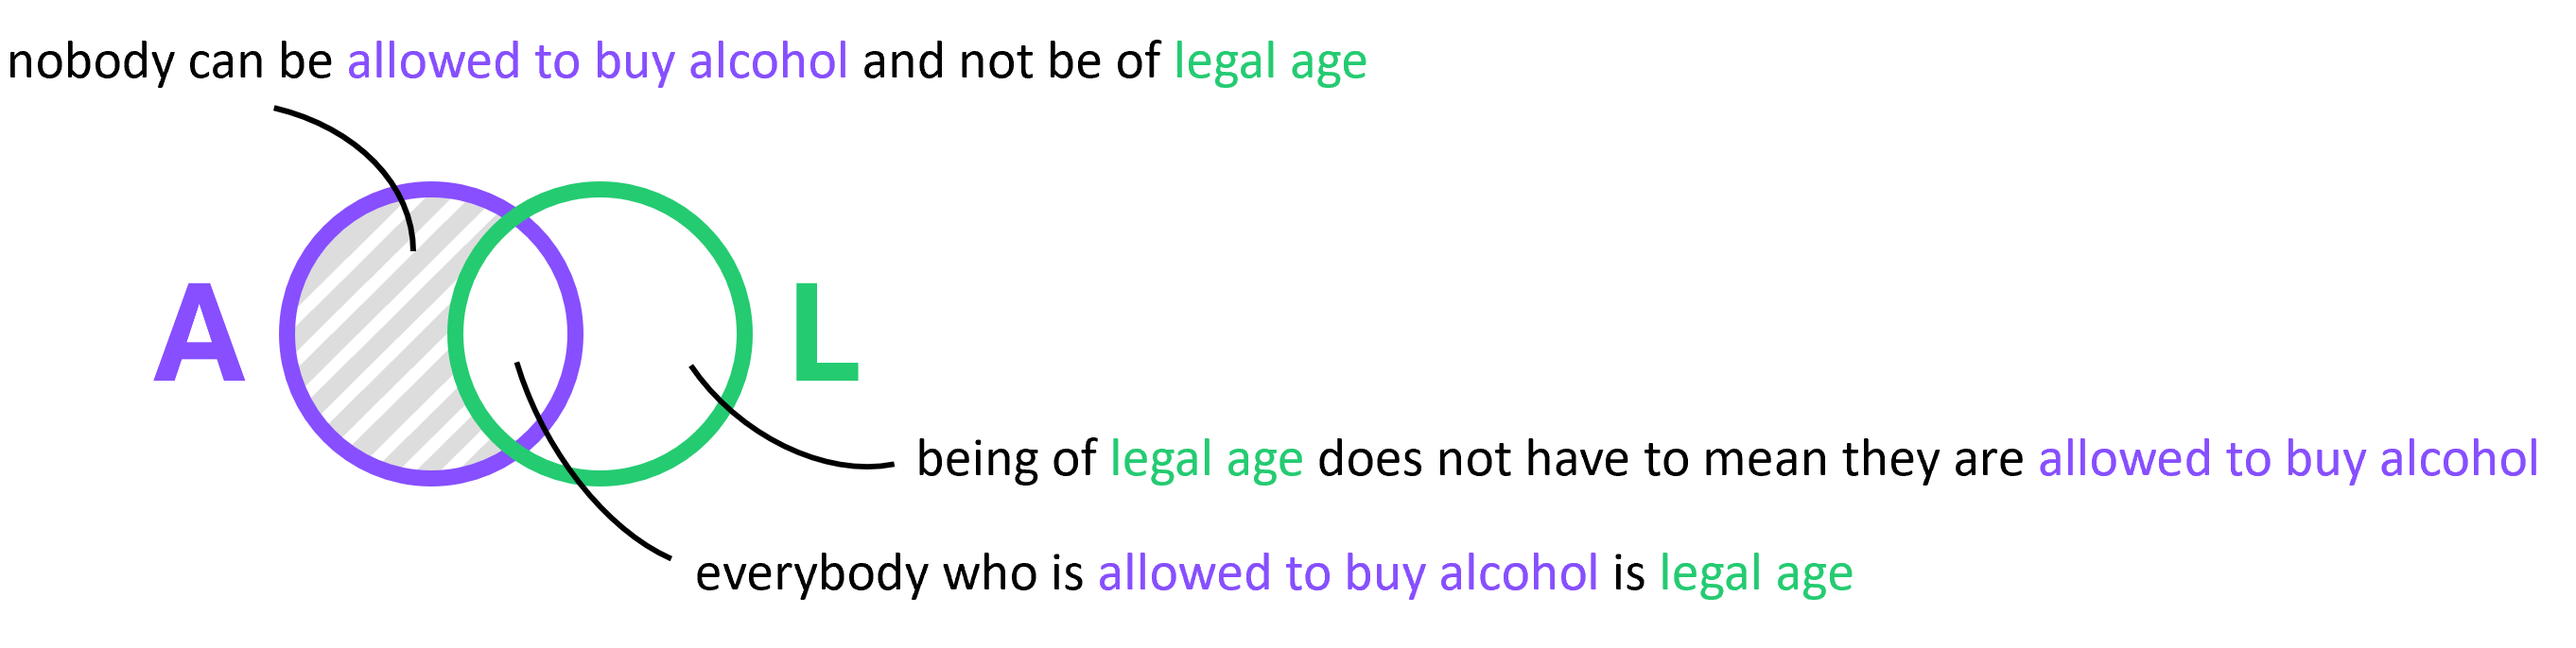
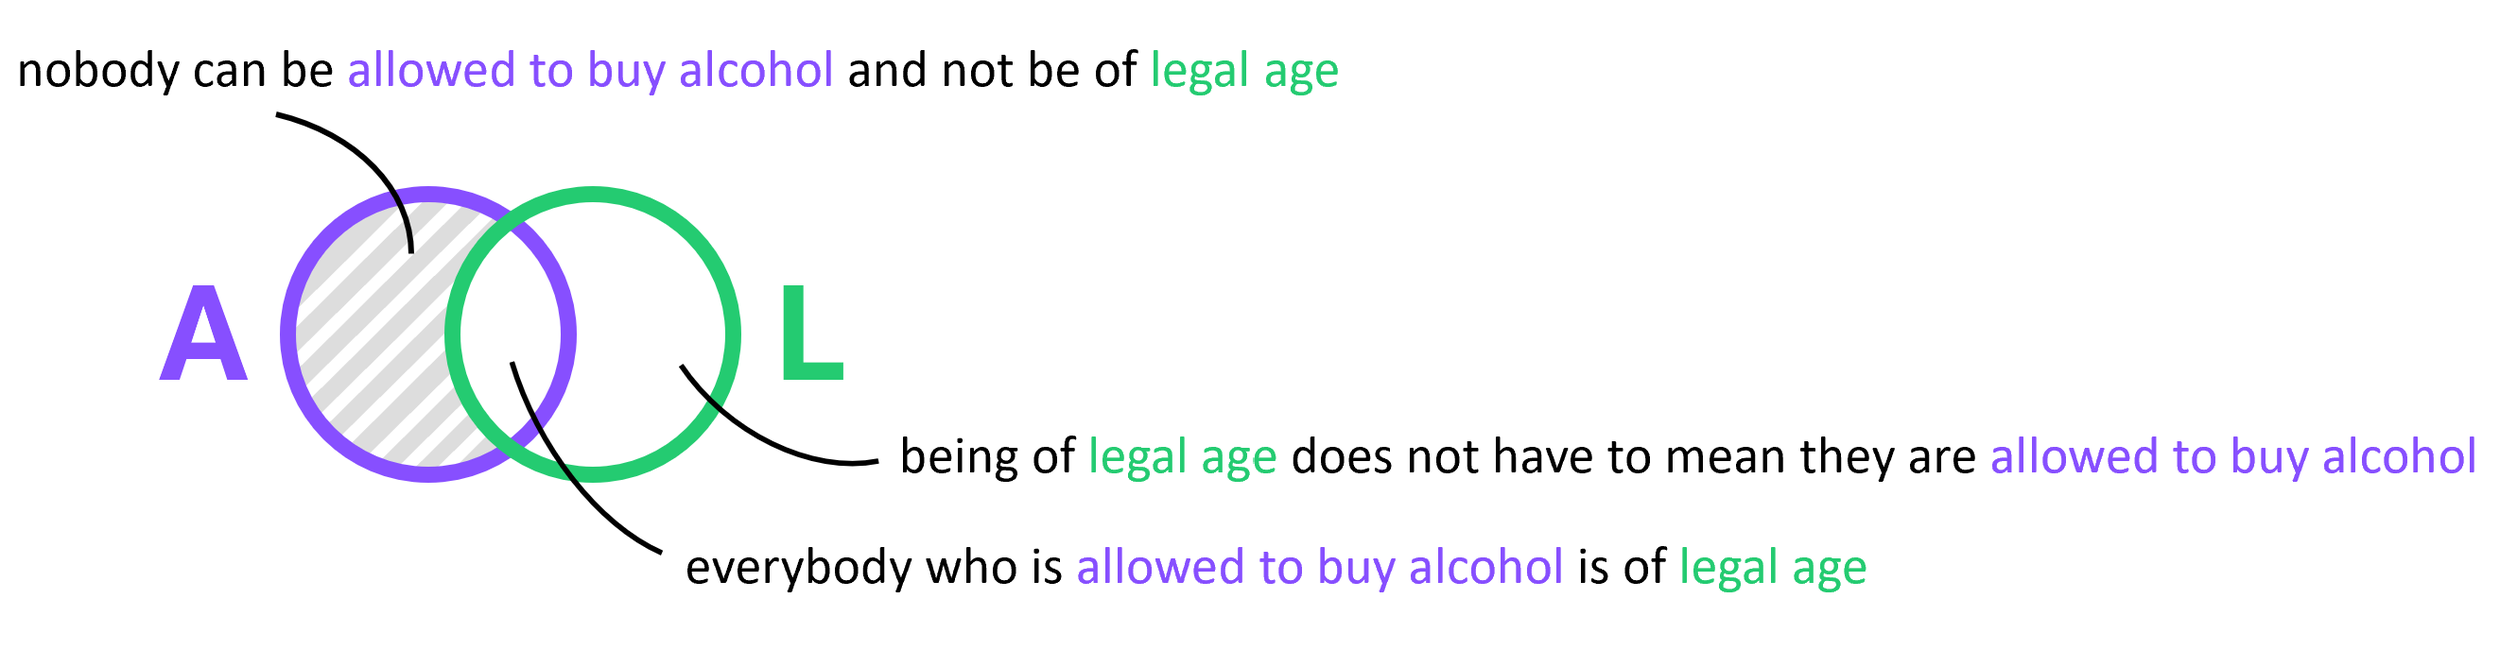
update tutorial

Changed region(s): [[0.062, 0.2143, 0.9924, 0.8265], [0.0, 0.0612, 0.5582, 0.1837], [0.2481, 0.8265, 0.7443, 0.9184]]

diff --git a/public/as-euler-study-part-1/assets/tutorial2.md b/public/as-euler-study-part-1/assets/tutorial2.md
@@ -6,11 +6,11 @@ All tasks include visual cues to help you find the solution. Each cue offers sup
 
 The first type of clue is the color coding of the task text. The "if" and "then" parts of the premises and the conclusion are highlighted in color. If two parts are highlighted in the same color, they are either the same statements or a statement and its negation. An example:
 
-"To be <mark style="background-color: #874fff88">allowed to buy alcohol in Germany</mark>, you must <mark style="background-color: #24CB7188">be of legal age</mark>. Anyone <mark style="background-color: #FF723788">under the age of 18</mark> is considered a <mark style="background-color: #24CB7188">minor</mark>. Anyone who is <mark style="background-color: #874fff88">allowed to buy alcohol in Germany</mark> must be <mark style="background-color: #FF723788">18 years of age or older</mark>."
+"To be <mark style="background-color: #874fff88">allowed to buy alcohol in Germany</mark>, you must <mark style="background-color: #24CB7188">be of legal age</mark>. Anyone <ins><mark style="background-color: #FF723788">under the age of 18</mark></ins> is considered a <ins><mark style="background-color: #24CB7188">minor</mark></ins>. Anyone who is <mark style="background-color: #874fff88">allowed to buy alcohol in Germany</mark> must be <mark style="background-color: #FF723788">18 years of age or older</mark>."
 
 This cue is intended to help you reliably identify the if-then form of declarative sentences, even in cases where negations are present. In case an if-part or then-part is negated, the corresponding text is <ins>underlined</ins>.
 
-##### Second Type of Cue: Euler Diagrams
+##### Second Cue: Euler Diagrams
 
 The second type of cue consists of set diagrams, which are displayed next to the text in addition to the color coding. Each premise and conclusion has its own set diagram. It shows the "if" part of the conditional as a set that is contained in the set of the "then" part. These diagrams are also called Euler diagrams.
 

diff --git a/public/as-venn-study-part-1/assets/tutorial2.md b/public/as-venn-study-part-1/assets/tutorial2.md
@@ -10,9 +10,9 @@ The first type of clue is the color coding of the task text. The "if" and "then"
 
 This cue is intended to help you reliably identify the if-then form of declarative sentences, even in cases where negations are present. In case an if-part or then-part is negated, the corresponding text is <ins>underlined</ins>.
 
-##### Second Type of Cue: Venn Diagrams
+##### Second Cue: Venn Diagrams
 
-The second type of cue consists of set diagrams, which are displayed next to the text in addition to the color coding. Each premise and conclusion has its own set diagram. It shows the "if" part and the "then" part of the conditional as two sets. The shading (hatched area) indicates that the "if" part of the conditional must lie exactly in the intersection and must therefore be a subset of the "then" part. These diagrams are also called Venn diagrams.
+The second type of cue consists of set diagrams, which are displayed next to the text in addition to the color coding. Each premise and conclusion has its own set diagram. It shows the "if" part and the "then" part of the conditional as two sets. If an area is shaded, it means that the situations contained within that subset cannot exist. The shading (hatched area) indicates that the "if" part of the conditional must lie exactly in the intersection and must therefore be a subset of the "then" part. These diagrams are also called Venn diagrams.
 
 An example: The following Venn diagram is displayed for the conditional "To be <mark style="background-color: #874fff88">allowed to buy alcohol in Germany</mark>, you must <mark style="background-color: #24CB7188">be of legal age</mark>":
 

diff --git a/public/as-euler-study-part-1/assets/tutorial4.md b/public/as-euler-study-part-1/assets/tutorial4.md
@@ -1,5 +1,5 @@
 ##### Solving Tasks with Visual Cues
 
-For the tasks that require you to draw conclusions, the premises in the context will be visualized. For other tasks, the context describes incomplete or incorrect arguments and ask about required assumptions or flaws in the reasoning. In this case, the Euler diagrams will  show you the premises and the conclusion of the argument. This way you can check how they can be combined to see which assumptions are required or where errors occured. Here is an example:
+For the tasks that require you to draw conclusions, the premises in the context will be visualized. For other tasks, the context describes incomplete or incorrect arguments and asks about required assumptions or flaws in the reasoning. In this case, the Euler diagrams will  show you the premises and the conclusion of the argument. This way you can check how they can be combined to see which assumptions are required or where errors occured. Here is an example:
 
 <img src="./assets/hint_example.png" width="auto" height="300px">

diff --git a/public/as-baseline-study-part-1/assets/tutorial4.md b/public/as-baseline-study-part-1/assets/tutorial4.md
@@ -1,6 +1,10 @@
 #### Task Types
 
-Each task requires you to read and comprehend a short passage, then answer one question. On the right-hand side is a virtual sketchpad. We encourage you to take notes or sketch out your thoughts, if you find it helpful!
+Each task requires you to read and comprehend a short passage, then answer one question. On the right-hand side is a virtual sketchpad that you can draw on with your mouse: 
+
+<img src="./assets/sketchpad.png" width="auto" height="150px">
+
+We encourage you to take notes or sketch out your thoughts, if you find it helpful!
 
 The questions require a wide range of skills involved in logical reasoning, including:
 

diff --git a/public/as-euler-study-part-1/assets/tutorial5.md b/public/as-euler-study-part-1/assets/tutorial5.md
@@ -4,7 +4,7 @@ Each task requires you to read and comprehend a short passage, then answer one q
 
 <img src="./assets/hint_interface.png" width="auto" height="50px">
 
-The cues will be revealed to you sequentially, you can replay them as often as you want. 
+The cues will be revealed to you sequentially, you can replay them as often as you want. Hover over the diagrams to see what they represent. 
 
 On the right-hand side is a virtual sketchpad that you can draw on with your mouse: 
 

diff --git a/public/as-venn-study-part-1/assets/tutorial5.md b/public/as-venn-study-part-1/assets/tutorial5.md
@@ -4,7 +4,7 @@ Each task requires you to read and comprehend a short passage, then answer one q
 
 <img src="./assets/hint_interface.png" width="auto" height="50px">
 
-The cues will be revealed to you sequentially, you can replay them as often as you want. 
+The cues will be revealed to you sequentially, you can replay them as often as you want. Hover over the diagrams to see what they represent. 
 
 On the right-hand side is a virtual sketchpad that you can draw on with your mouse: 
 

diff --git a/public/as-venn-study-part-1/assets/tutorial3.md b/public/as-venn-study-part-1/assets/tutorial3.md
@@ -1,4 +1,4 @@
-##### Second Type of Cue: Venn Diagrams
+##### Second Cue: Venn Diagrams
 
 Venn diagrams have the advantage that they can also represent a logical inference with two premises. Here is an example:
 
